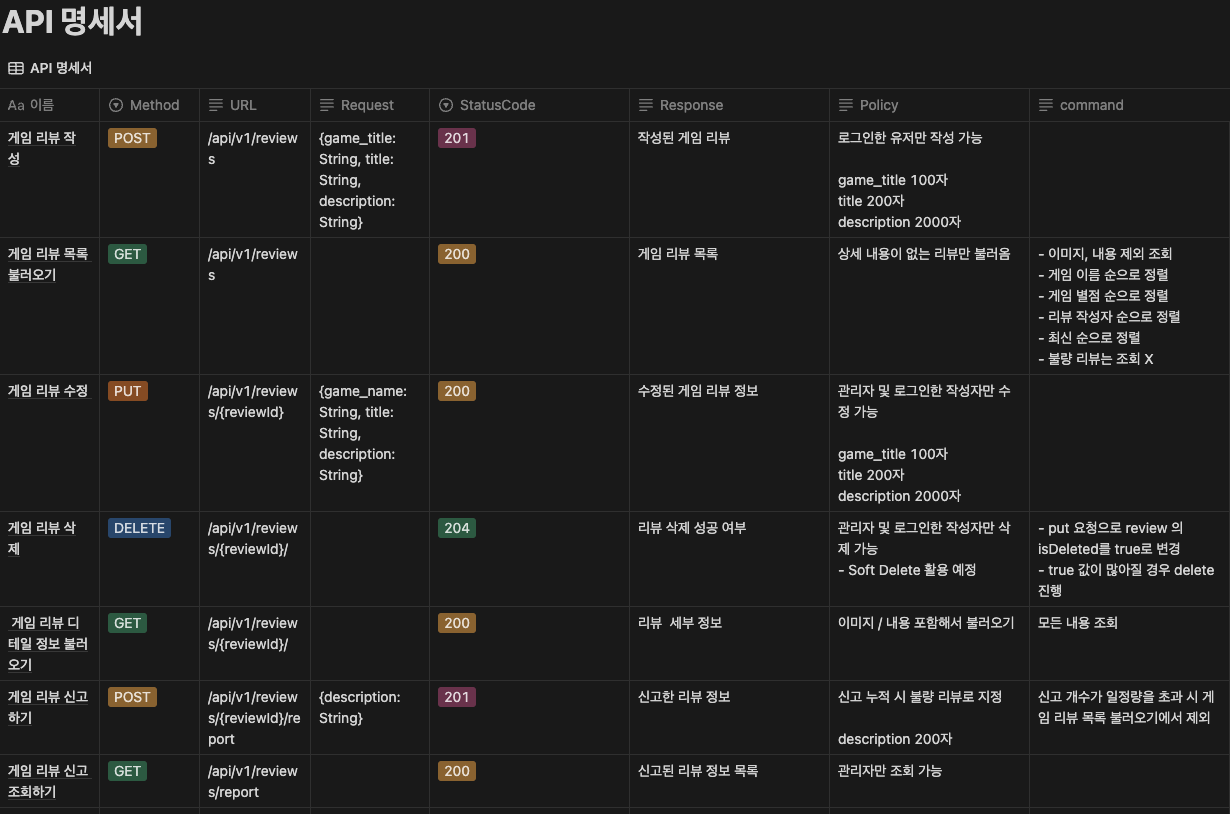
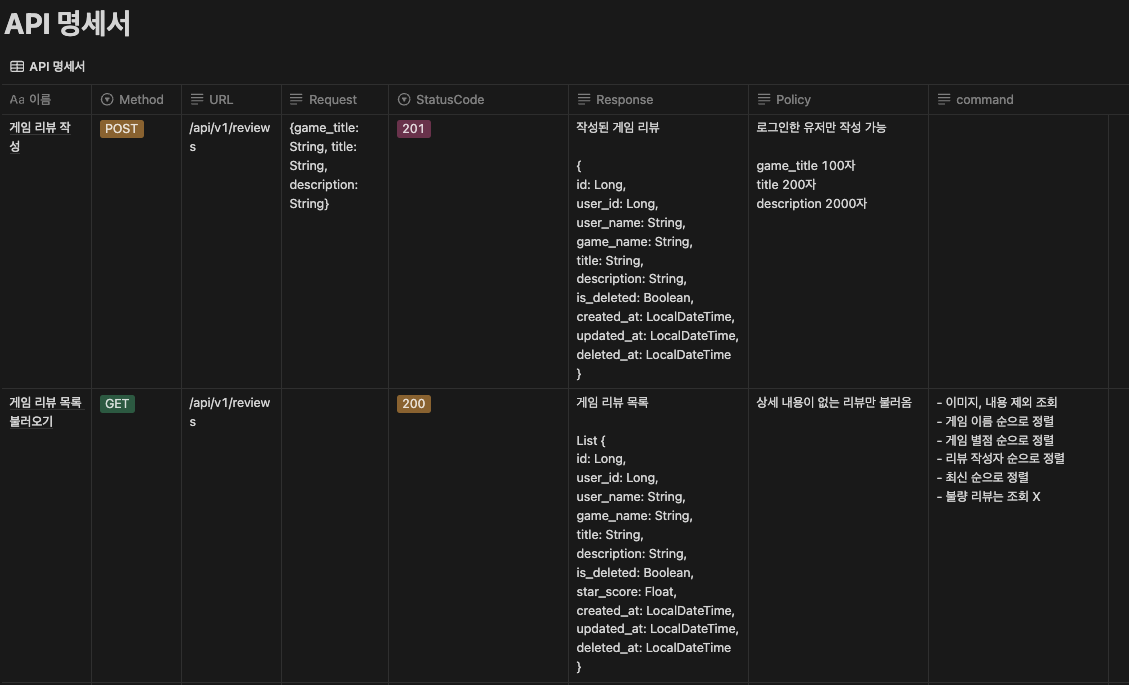
docs : #14 README.md 사진 변경

diff --git a/README.md b/README.md
@@ -56,6 +56,9 @@
     <img src="https://github.com/gamenome-project/gamenome-project-server/blob/readme/src/main/resources/img/api_spec_summary1.png">
     <img src="https://github.com/gamenome-project/gamenome-project-server/blob/readme/src/main/resources/img/api_spec_summary2.png">
     <img src="https://github.com/gamenome-project/gamenome-project-server/blob/readme/src/main/resources/img/api_spec_summary3.png">
+    <img src="https://github.com/gamenome-project/gamenome-project-server/blob/readme/src/main/resources/img/api_spec_summary4.png">
+    <img src="https://github.com/gamenome-project/gamenome-project-server/blob/readme/src/main/resources/img/api_spec_summary5.png">
+    <img src="https://github.com/gamenome-project/gamenome-project-server/blob/readme/src/main/resources/img/api_spec_summary6.png">
 </div>
 
 </details>
